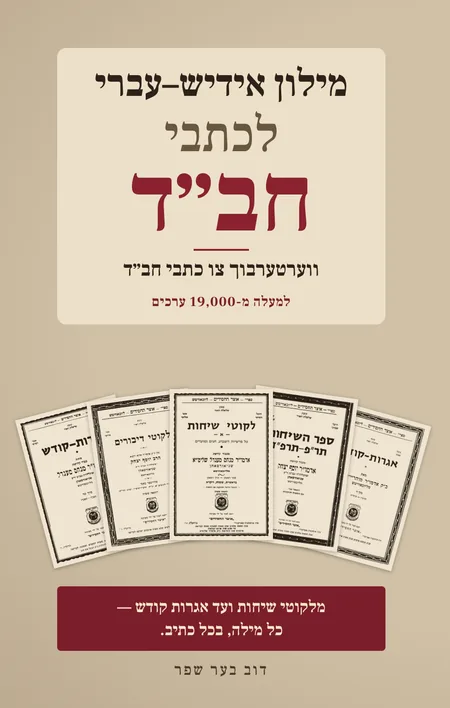
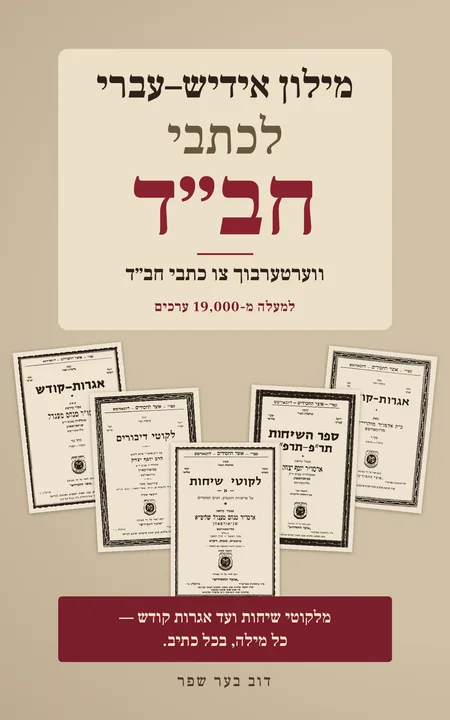
Shop: book cover now the stepped (מדורג) layout instead of the fan

diff --git a/shop-milon.html b/shop-milon.html
@@ -17,7 +17,7 @@
   <div class="product">
     <div class="gal" aria-roledescription="גלריה" aria-label="תמונות הספר">
       <div class="track" tabindex="0">
-        <figure class="slide cover" data-label="כריכה"><img src="shop/book-cover-900.webp" width="900" height="1416" alt="כריכת הספר מילון אידיש–עברי לכתבי חב״ד, מאת דוב בער שפר" fetchpriority="high"><span class="tag">טיוטת כריכה</span></figure>
+        <figure class="slide cover" data-label="כריכה"><img src="shop/book-cover-900.webp?v=2" width="900" height="1440" alt="כריכת הספר מילון אידיש–עברי לכתבי חב״ד, מאת דוב בער שפר" fetchpriority="high"><span class="tag">טיוטת כריכה</span></figure>
       </div>
       <button class="nav prev" type="button" aria-label="התמונה הקודמת">›</button>
       <button class="nav next" type="button" aria-label="התמונה הבאה">‹</button>

diff --git a/shop.html b/shop.html
@@ -27,7 +27,7 @@
       </div>
     </a>
     <a class="card" href="shop-milon.html">
-      <div class="pic book"><img src="shop/book-cover-450.webp" width="450" height="708" alt="כריכת הספר מילון אידיש–עברי לכתבי חב״ד"></div>
+      <div class="pic book"><img src="shop/book-cover-450.webp?v=2" width="450" height="720" alt="כריכת הספר מילון אידיש–עברי לכתבי חב״ד"></div>
       <div class="body">
         <h2>מילון אידיש–עברי לכתבי חב״ד</h2>
         <p>ספר מודפס, למעלה מ-19,000 ערכים.</p>
